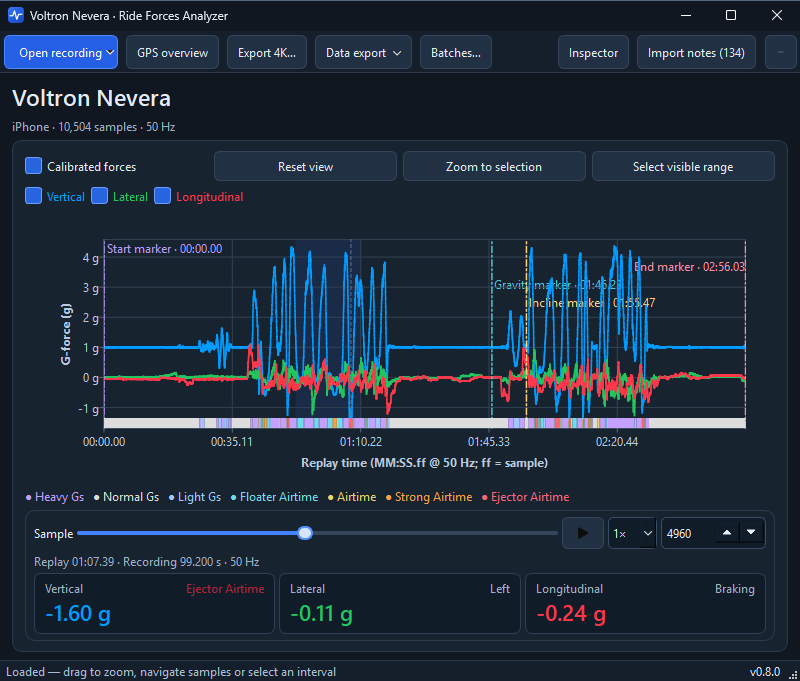
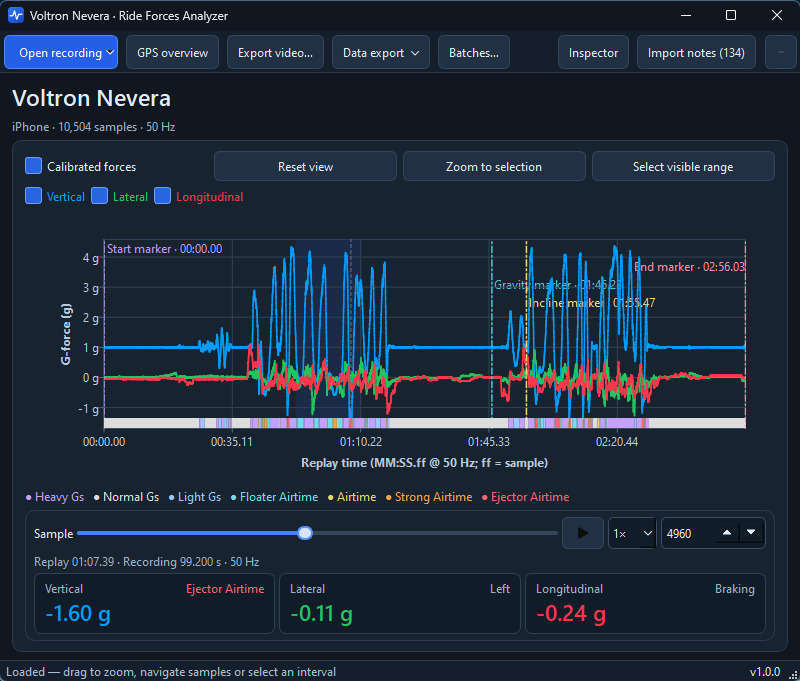
:package: build(packaging): prepare stable version 1.0.0
Why:
Publish the first stable release with matching metadata, documentation and screenshots.

Changes:
- Set application and locked project metadata to 1.0.0.
- Refresh every screenshot group and stable-release guidance.
- Verify stable Windows version resources and update the focused coverage command.

Changed region(s): [[0.3125, 0.0308, 0.6562, 0.1233], [0.25, 0.8634, 0.3125, 0.8943], [0.9375, 0.9868, 0.9688, 1.0]]

diff --git a/tests/packaging/test_windows_packages.py b/tests/packaging/test_windows_packages.py
@@ -47,7 +47,7 @@ def test_qt_gui_hook_excludes_only_pdf_plugins(monkeypatch: pytest.MonkeyPatch) 
     assert result["datas"] == [("translations/qtbase_de.qm", "translations")]
 
 
-@pytest.mark.parametrize("version,flags", [("1.2.3", 0), ("1.2.3rc2", 2)])
+@pytest.mark.parametrize("version,flags", [("1.0.0", 0), ("1.2.3", 0), ("1.2.3rc2", 2)])
 def test_version_resource_preserves_unicode_and_project_version(
     export_directory: Path,
     version: str,
@@ -81,7 +81,8 @@ def test_version_resource_preserves_unicode_and_project_version(
         if isinstance(node.func, ast.Name) and node.func.id == "FixedFileInfo"
     )
     values = {item.arg: ast.literal_eval(item.value) for item in fixed.keywords}
-    assert values == {"filevers": (1, 2, 3, 0), "prodvers": (1, 2, 3, 0), "flags": flags}
+    numeric = (1, 0, 0, 0) if version == "1.0.0" else (1, 2, 3, 0)
+    assert values == {"filevers": numeric, "prodvers": numeric, "flags": flags}
 
 
 def test_windows_version_rejects_unrepresentable_components(export_directory: Path) -> None:

diff --git a/src/ride_forces_analyzer/__init__.py b/src/ride_forces_analyzer/__init__.py
@@ -4,4 +4,4 @@ Copyright (c) 2026 Björn Rudner.
 SPDX-License-Identifier: GPL-3.0-or-later
 """
 
-__version__ = "0.8.0"
+__version__ = "1.0.0"

diff --git a/docs/development/RELEASE.md b/docs/development/RELEASE.md
@@ -23,8 +23,8 @@ policy, package construction and publication.
   be contained in `origin/main` and associated with a merged PR targeting this
   repository's `main`. Full CI, including mandatory Gitleaks history scanning,
   must pass for that same revision.
-- All `0.x` versions and versions with `a`, `b` or `rc` suffixes are prereleases.
-  Plain versions from `1.0.0` onward are stable releases.
+- Version `1.0.0` is the first stable release. Stable releases use plain numeric
+  versions and are published as the latest release.
 - Paid code signing and macOS notarization are not release gates; the
   [distribution constraints](../architecture/02_architecture_constraints.md#distribution-constraints)
   define the accepted signing limitations.
@@ -51,7 +51,7 @@ To retry publication of an existing tag after a workflow correction, dispatch th
 current workflow from `main` with the `tag` input, for example:
 
 ```powershell
-gh workflow run source-release.yml --ref main -f tag=v0.8.0
+gh workflow run source-release.yml --ref main -f tag=v1.0.0
 ```
 
 Quality checks use the current workflow definition and check out the resolved
@@ -89,8 +89,8 @@ attempts, including failures, are recorded in `preferences.sqlite3`. It also sto
 the opt-in and one skipped tag. Manual checks bypass the interval and skipped tag.
 Only published releases with an uploaded application download for the running
 OS/architecture qualify; source archives and checksums alone do not. The highest
-newer supported version is selected numerically, including `0.x` and `a`/`b`/`rc`
-prereleases; bare tags, drafts and releases without downloads do not qualify.
+newer supported version is selected numerically; bare tags, drafts and releases
+without downloads do not qualify.
 
 The public GitHub Releases API uses unauthenticated HTTPS without recording data
 or paths. Checks bound pages (five of 100), response bytes (2 MiB per page), socket
@@ -124,7 +124,7 @@ and video overlays**, author **Björn Rudner** and **Copyright © 2026 Björn Ru
 - Windows generates a UTF-8 `--version-file`: `ProductName`, `FileDescription`,
   author in `CompanyName`, `LegalCopyright`, `OriginalFilename`, and matching
   `FileVersion`/`ProductVersion`. Numeric versions use four 16-bit components;
-  full text retains prerelease suffixes and the resource marks prereleases.
+  full text retains the exact project version; stable releases have no preview flag.
   The resource uses English text with Unicode; UI language remains independent.
 - macOS sets `CFBundleName`, `CFBundleDisplayName`, both existing version keys and
   `NSHumanReadableCopyright` before signing. `RideForcesAnalyzerDescription` and

diff --git a/README.md b/README.md
@@ -1,7 +1,7 @@
 # Ride Forces Analyzer
 
 [![CI](https://github.com/rudnerbjoern/ride-forces-analyzer/actions/workflows/ci.yml/badge.svg)](https://github.com/rudnerbjoern/ride-forces-analyzer/actions/workflows/ci.yml)
-[![Release](https://img.shields.io/github/v/release/rudnerbjoern/ride-forces-analyzer?include_prereleases)](https://github.com/rudnerbjoern/ride-forces-analyzer/releases)
+[![Release](https://img.shields.io/github/v/release/rudnerbjoern/ride-forces-analyzer)](https://github.com/rudnerbjoern/ride-forces-analyzer/releases)
 [![License: GPL-3.0-or-later](https://img.shields.io/badge/license-GPL--3.0--or--later-blue)](LICENSE)
 [![Platforms: Windows, Linux and macOS](https://img.shields.io/badge/platform-Windows%20%7C%20Linux%20%7C%20macOS-blue)](docs/user/INSTALLATION.md)
 [![GitHub issues](https://img.shields.io/github/issues/rudnerbjoern/ride-forces-analyzer)](https://github.com/rudnerbjoern/ride-forces-analyzer/issues)
@@ -45,7 +45,7 @@ No Python installation is needed. The Windows Complete ZIP includes FFmpeg for
 video export; Linux and macOS need it installed separately. Windows EXE and
 Standard ZIP downloads are also available if you prefer to use your own FFmpeg.
 
-This is a preview release. Windows and macOS may display a security warning
+Version **1.0.0** is the first stable release. Windows and macOS may display a security warning
 when you first open the app.
 Follow the [installation guide](docs/user/INSTALLATION.md) for download
 verification, Linux prerequisites and first-launch instructions.

diff --git a/docs/development/SETUP.md b/docs/development/SETUP.md
@@ -151,8 +151,8 @@ and fixture links open their maintained files on GitHub. The README itself keeps
 its normal repository-relative links. Ruby is not an application dependency.
 
 The [local layout](../../_layouts/default.html) adds section navigation and Windows
-EXE/Complete ZIP buttons. At build time it selects the most recently published
-non-draft release containing both Windows assets, including prereleases, and adds
+EXE/Complete ZIP buttons. At build time it selects the most recent published
+release containing both Windows assets and adds
 Linux/macOS links when their matching assets are present. Unpublished platform
 packages never produce broken buttons. Without
 matching metadata it links to the release list. A newly published release appears

diff --git a/.agents/skills/release/SKILL.md b/.agents/skills/release/SKILL.md
@@ -26,7 +26,7 @@ Honor existing owner authorization; ask only for missing target version or permi
   and reusable. Preserve its `{{VERSION}}`, `{{REPOSITORY}}` and `{{TAG}}`
   placeholders and preview their substitution. Add a concise Upgrade notes section
   only when this release needs specific user action; remove obsolete upgrade notes
-  when preparing the next release. Follow prerelease and redistribution policy.
+  when preparing the next release. Follow version and redistribution policy.
 - Refresh screenshots affected by visible/version changes through
   [update-screenshots](../update-screenshots/SKILL.md); do not introduce a new capture tool.
 

diff --git a/docs/development/CODE_QUALITY.md b/docs/development/CODE_QUALITY.md
@@ -89,7 +89,9 @@ Run from the repository root on native Windows:
 uv run --locked pytest --cov --cov-report=term-missing `
     tests/analysis/test_recording.py tests/analysis/test_recording_validation.py `
     tests/analysis/test_recording_preparation.py tests/analysis/test_recording_recalculation.py `
-    tests/analysis/test_service.py tests/analysis/test_airtime_events.py
+    tests/analysis/test_service.py tests/analysis/test_airtime_events.py `
+    tests/analysis/test_calibration_recalculation.py tests/analysis/test_ride_markers.py `
+    tests/analysis/test_rfdb.py
 uv run --locked coverage html
 uv run --locked coverage json
 ```

diff --git a/docs/user/INSTALLATION.md b/docs/user/INSTALLATION.md
@@ -5,7 +5,7 @@
 Download your platform's package and checksum file from
 [GitHub Releases](https://github.com/rudnerbjoern/ride-forces-analyzer/releases).
 The application includes Python; no Python installation or setup script is needed.
-In commands below, replace `VERSION` with the downloaded version, such as `0.8.0`.
+In commands below, replace `VERSION` with the downloaded version, such as `1.0.0`.
 
 ## Windows 10/11 x64
 
